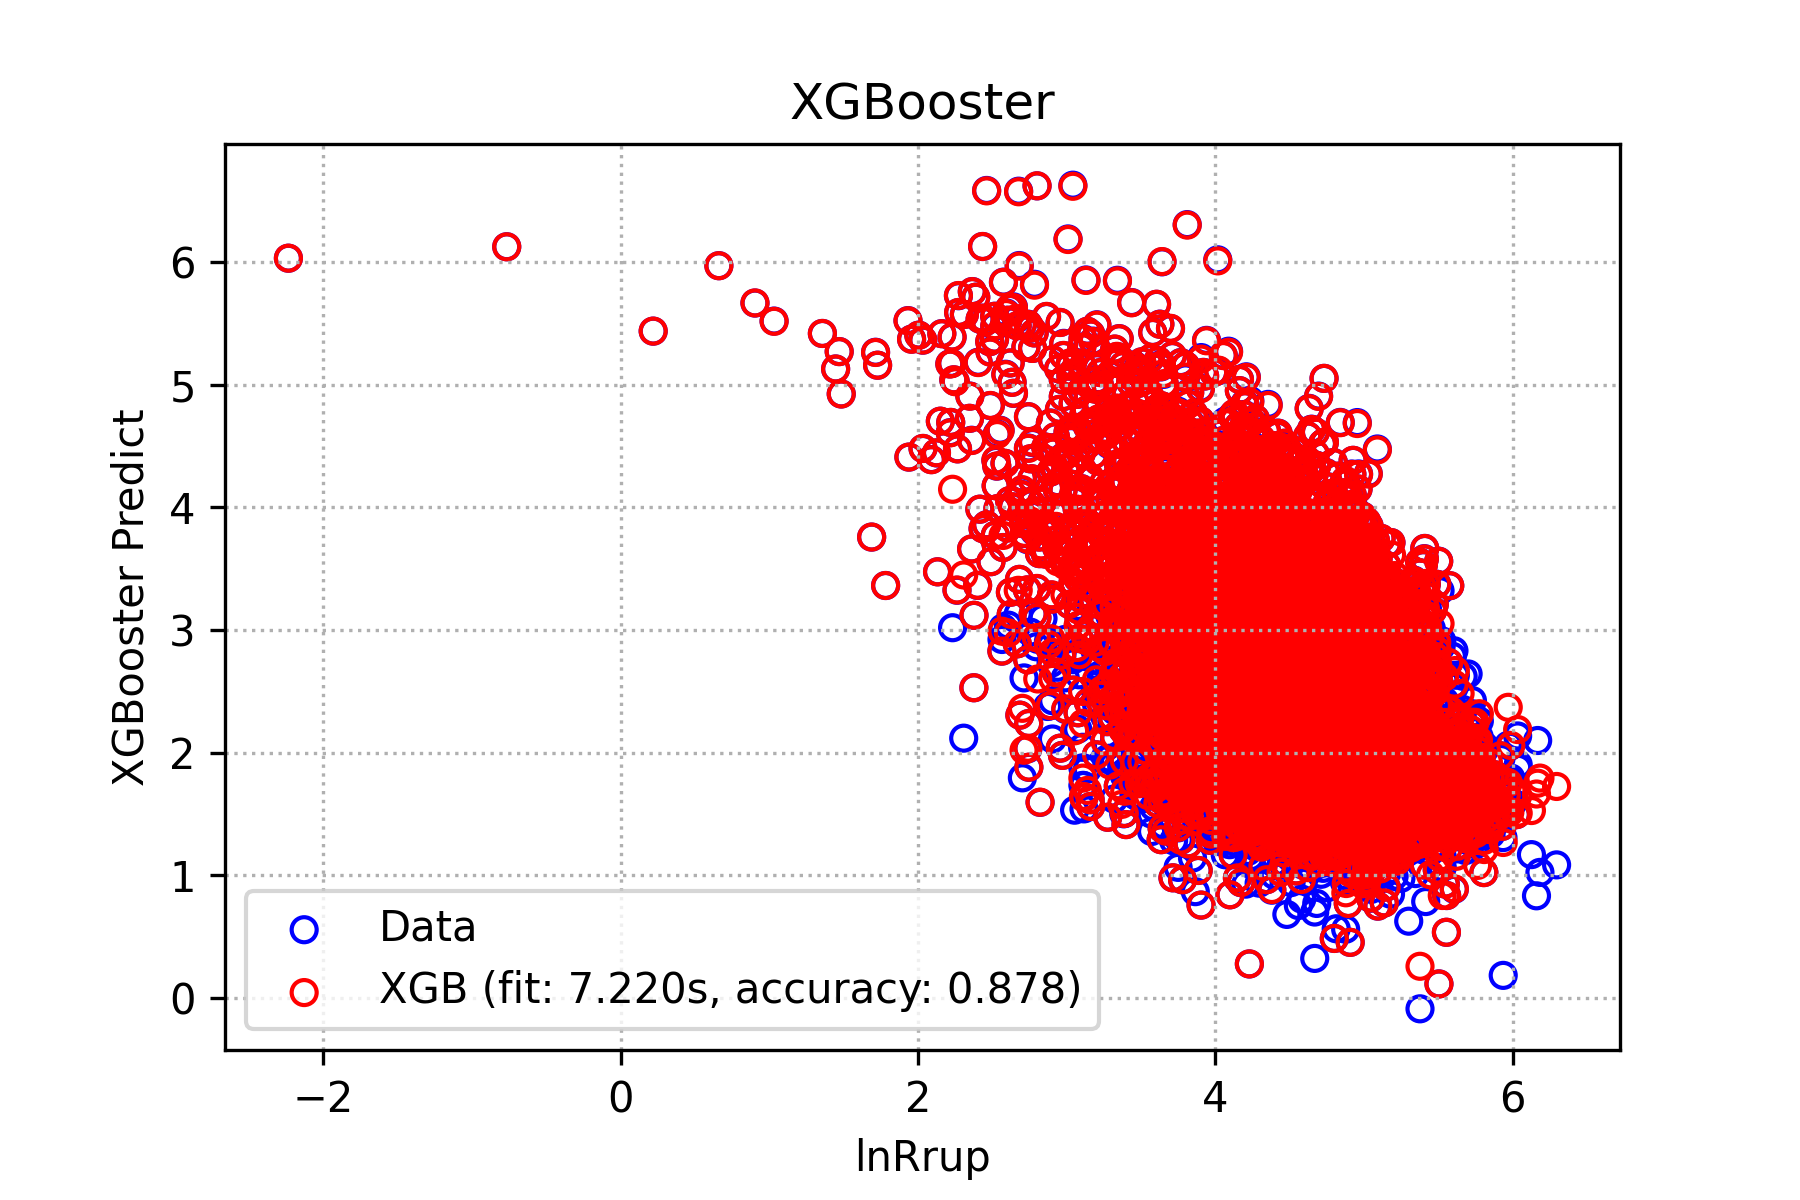
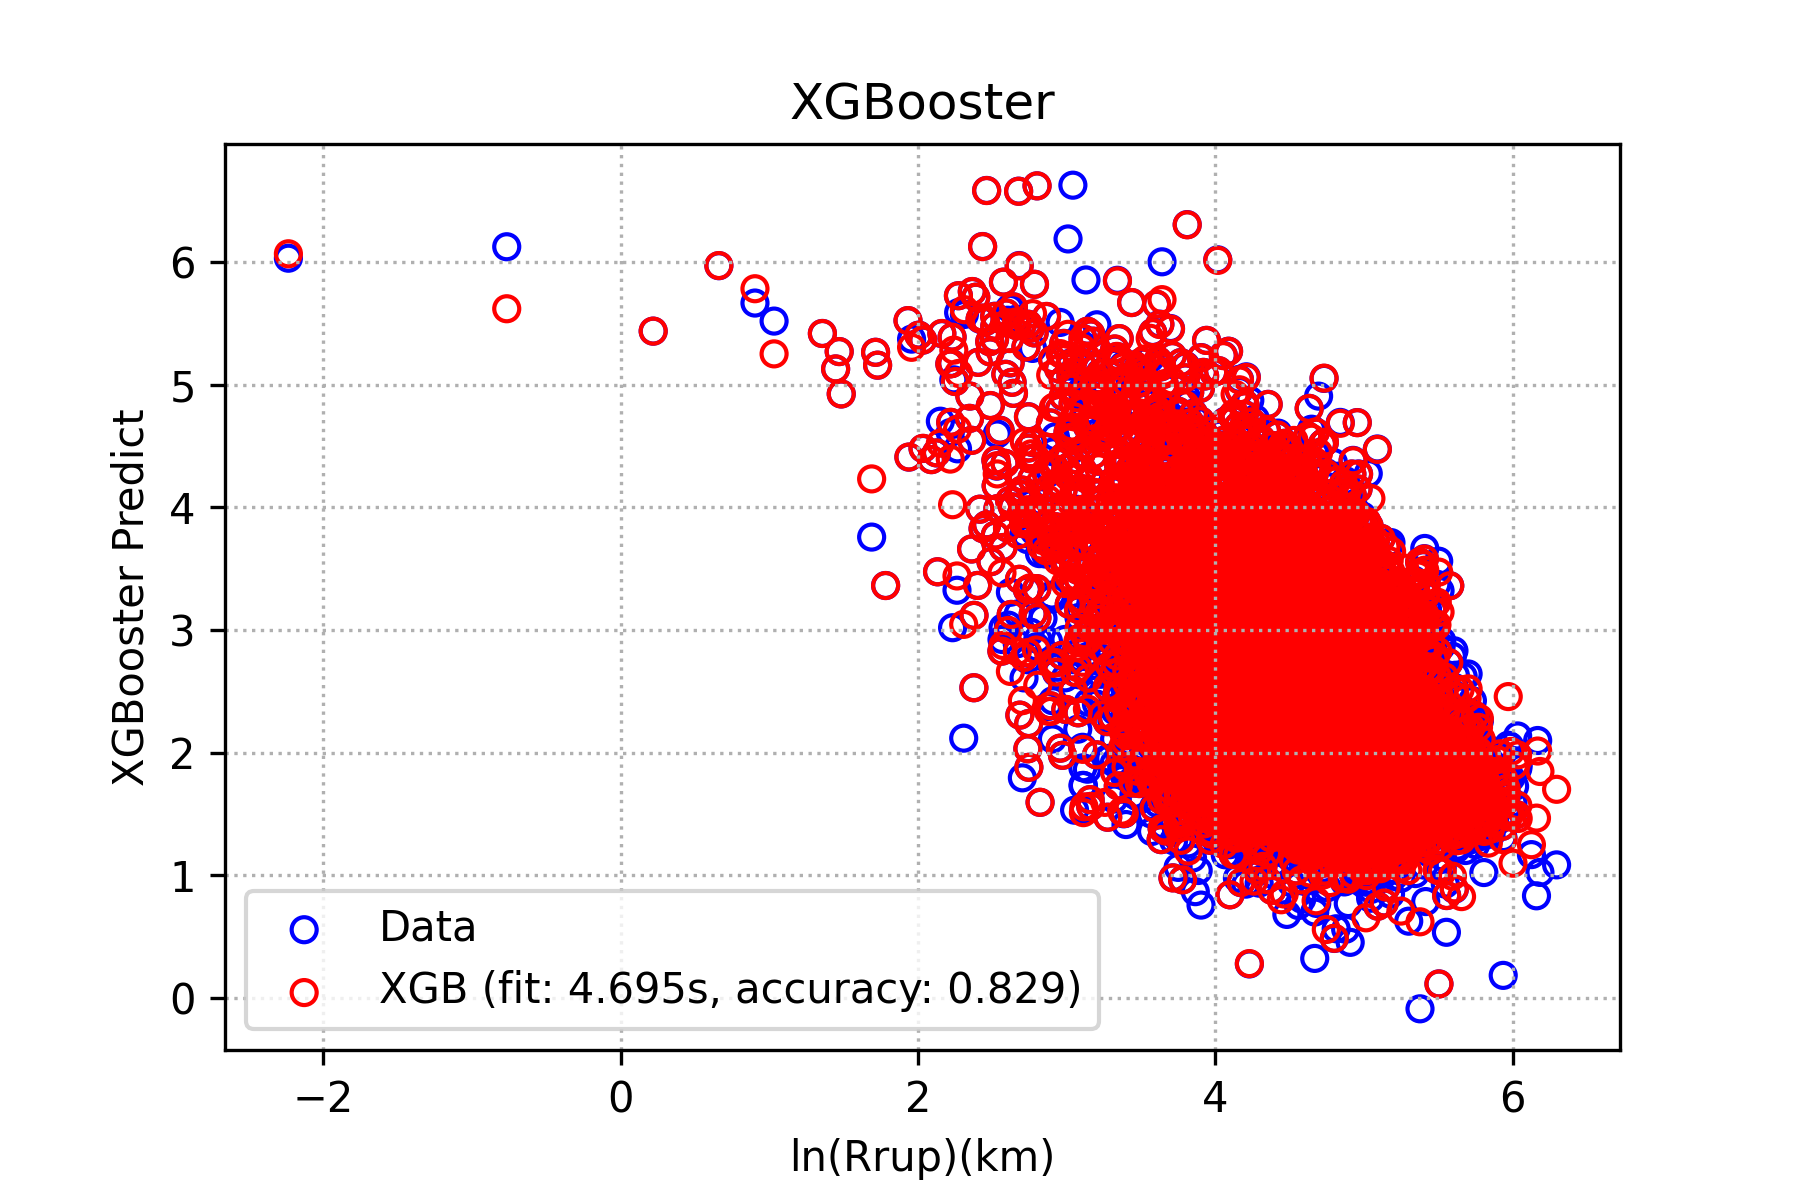
add XGB para

diff --git a/machine_learning/XGB/XGB_TSMIP.py b/machine_learning/XGB/XGB_TSMIP.py
@@ -19,7 +19,7 @@ result_ori = model.split_dataset(TSMIP_df, 'lnPGA(gal)', True, 'lnVs30',
                                   'MW', 'lnRrup', 'fault.type', 'STA_Lon_X',
                                   'STA_Lat_Y')
 score, feature_importances, fit_time, final_predict = model.training(
-    "XGB", result_SMOGN[0], result_ori[1], result_SMOGN[1], result_ori[3])
+    "XGB", result_SMOGN[0], result_ori[1], result_SMOGN[2], result_ori[3])
 
 plot_something = plot_fig("XGBooster","XGB","SMOGN")
 plot_something.train_test_distribution(result_ori[1], result_ori[3], final_predict, fit_time, score)

diff --git a/machine_learning/design_pattern/process_train.py b/machine_learning/design_pattern/process_train.py
@@ -148,6 +148,7 @@ class dataprocess:
             XGB_params = {
                 'n_estimators': 3000,
                 'max_depth': 20,
+                'learning_rate': 0.5,
                 'n_jobs':-1
             }
             XGBModel = XGBRegressor(**XGB_params)
